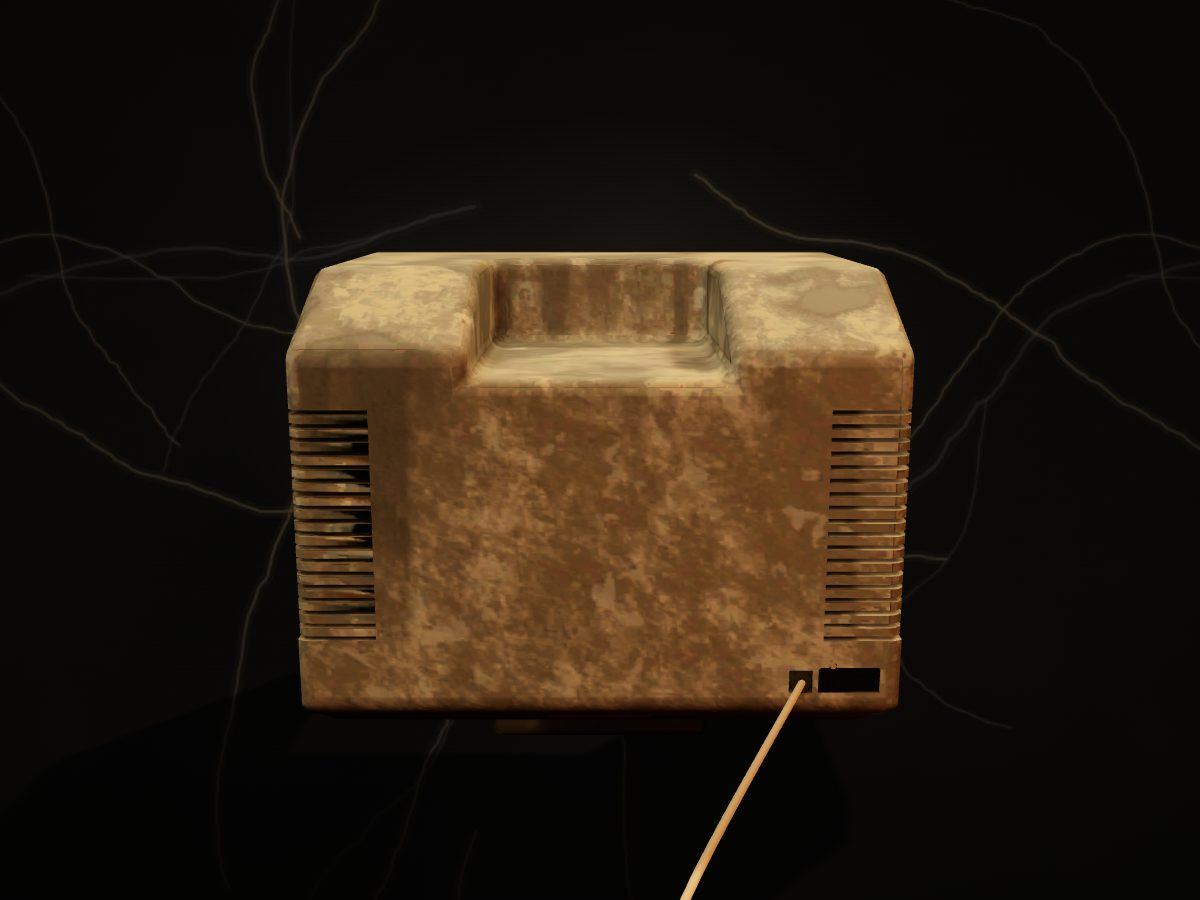
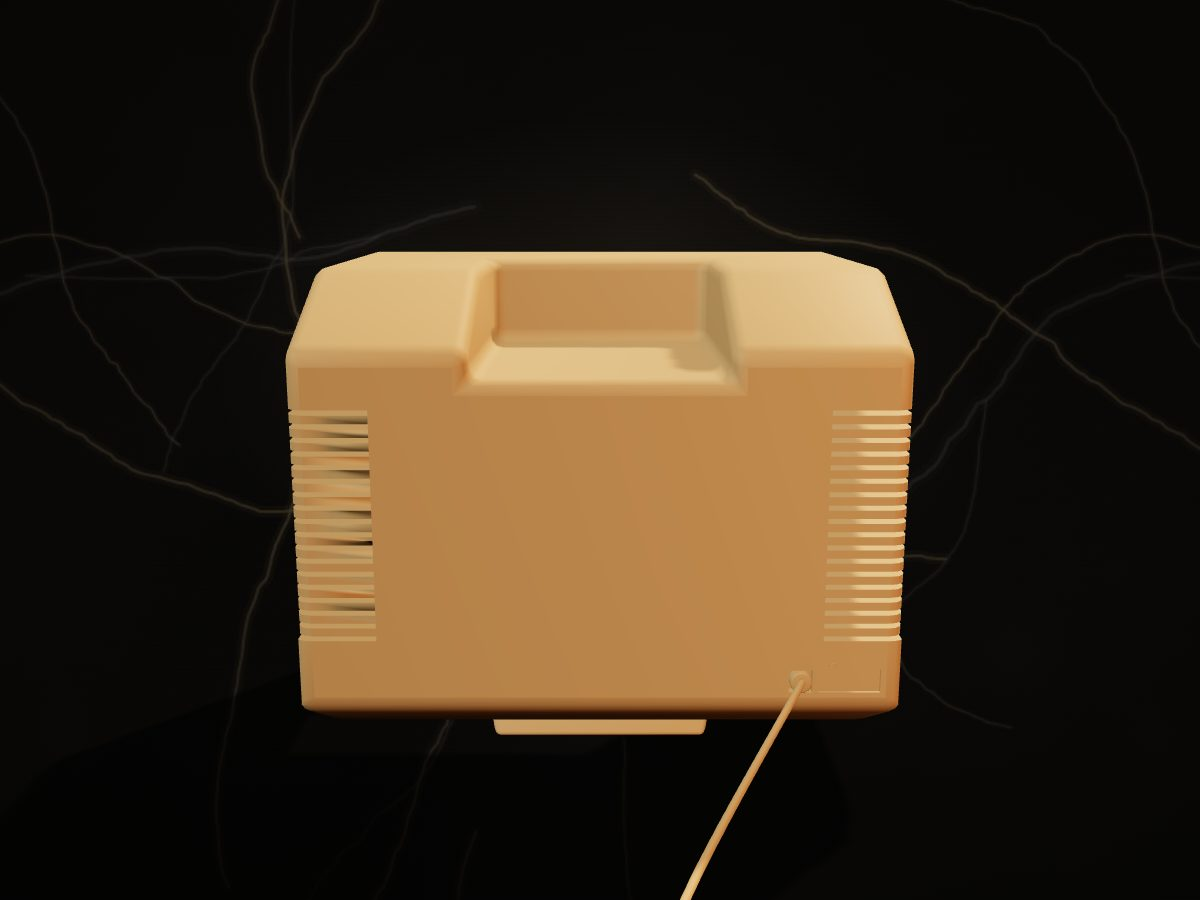
fix(nfz-300): plastique beige uni, le terminal ne ressemblait plus qu'au Minitel 1
Signalé en ligne le 13 octobre : dans sa salle, le NFZ 300 avait l'air du
Minitel 1. La teinte multipliait la carte de couleur d'origine, grise et
tachée, et sous la lumière du salon le beige disparaissait. La carte de
couleur est retirée : plastique beige uni, relief et rugosité d'origine
conservés. Vues de la Documentation et carte d'inventaire recapturées.

Le modèle du NFZ 300 trouvé sur Cults reste exclu (usage privé, outils
d'IA interdits) ; aucun modèle sous licence libre n'existe (Sketchfab).

Changed region(s): [[0.2158, 0.28, 0.7708, 0.84]]

diff --git a/src/documentation/content.fr.ts b/src/documentation/content.fr.ts
@@ -84,7 +84,7 @@ export const contentFr: DocContent = {
       kicker: "Radiotechnique · monobloc beige",
       intro: [
         "Minitel 1 de La Radiotechnique, reference 9 NFZ 300/2, conserve par l'association ACONIT a Grenoble. Sa fiche PATSTEC le presente comme un des tout premiers modeles de Minitel, deja dote d'un clavier AZERTY : le tout premier, a clavier alphabetique, avait ete rejete par les usagers.",
-        "C'est un appareil monobloc en plastique beige, developpe au sein du groupe Philips France : le modem 1200/75 bauds vient de la filiale TRT, le tube et l'assemblage de Radiotechnique. Dans le terminal 3D, il est interprete sur la geometrie du Minitel 1, teintee de beige.",
+        "C'est un appareil monobloc en plastique beige, developpe au sein du groupe Philips France : le modem 1200/75 bauds vient de la filiale TRT, le tube et l'assemblage de Radiotechnique. Dans le terminal 3D, il est interprete sur la geometrie du Minitel 1, en plastique beige.",
       ],
       facts: [
         { label: "Reference", value: "Minitel 9 NFZ 300/2 (fiche PATSTEC, ACONIT)" },
@@ -95,7 +95,7 @@ export const contentFr: DocContent = {
       ],
       asset: [
         ...minitelAsset.slice(0, 3),
-        { label: "Finition 3D", value: "teinte beige sur les textures d'origine du Minitel 1 (interpretation)" },
+        { label: "Finition 3D", value: "plastique beige uni, relief et rugosite d'origine du Minitel 1 (interpretation)" },
         minitelAsset[5],
         minitelAsset[3],
       ],

diff --git a/src/documentation/content.en.ts b/src/documentation/content.en.ts
@@ -85,7 +85,7 @@ export const contentEn: DocContent = {
       kicker: "Radiotechnique · beige one-piece",
       intro: [
         "A Minitel 1 by La Radiotechnique, reference 9 NFZ 300/2, kept by the ACONIT association in Grenoble. Its PATSTEC record presents it as one of the very first Minitel models, already fitted with an AZERTY keyboard: the very first one, with an alphabetical keyboard, had been rejected by its users.",
-        "It is a one-piece unit in beige plastic, developed within the Philips France group: the 1200/75 baud modem comes from the TRT subsidiary, the tube and assembly from Radiotechnique. In the 3D terminal, it is interpreted on the Minitel 1 geometry, tinted beige.",
+        "It is a one-piece unit in beige plastic, developed within the Philips France group: the 1200/75 baud modem comes from the TRT subsidiary, the tube and assembly from Radiotechnique. In the 3D terminal, it is interpreted on the Minitel 1 geometry, in beige plastic.",
       ],
       facts: [
         { label: "Reference", value: "Minitel 9 NFZ 300/2 (PATSTEC record, ACONIT)" },
@@ -96,7 +96,7 @@ export const contentEn: DocContent = {
       ],
       asset: [
         ...minitelAsset.slice(0, 3),
-        { label: "3D finish", value: "beige tint over the original Minitel 1 textures (interpretation)" },
+        { label: "3D finish", value: "plain beige plastic, original Minitel 1 relief and roughness (interpretation)" },
         minitelAsset[5],
         minitelAsset[3],
       ],

diff --git a/src/demo/catalog.ts b/src/demo/catalog.ts
@@ -65,14 +65,17 @@ const terminatelFinish: MaterialFinish = (_mesh, material, role) => {
 // Interpretation of the Radiotechnique Minitel 1 « 9 NFZ 300/2 » (PATSTEC record
 // 27402, ACONIT) : « un appareil en plastique absolument monobloc de couleur
 // beige ». No 3D model of it can be used (the one found on Cults is for private
-// use, without AI) : the Minitel 1 geometry gets a beige tint, keys untouched.
-const beige = new Color("#d8bf94");
+// use, without AI) : the Minitel 1 geometry gets a beige plastic, keys untouched.
+const beige = new Color("#d6bf95");
 const nfz300Finish: MaterialFinish = (_mesh, material, role) => {
   if (!(material instanceof MeshStandardMaterial) || role === "key") return;
-  // The tint multiplies the original maps : light plastic turns beige, the
-  // dark bezel stays dark.
+  // A tint over the original colour map read as the grey, mottled Minitel 1
+  // (seen in its room, 13 October 2026) : the colour map goes, the plastic is
+  // beige and one-piece ; the relief and roughness maps keep the details.
+  material.map = null;
   material.color.copy(beige);
-  material.roughness = Math.max(material.roughness, 0.6);
+  material.roughness = 0.55;
+  material.metalness = 0;
   material.needsUpdate = true;
 };
 

diff --git a/docs/MONDE_EXPLORABLE.md b/docs/MONDE_EXPLORABLE.md
@@ -219,7 +219,7 @@ fondu de 0,4 s mène à la salle.
 | --- | --- | --- | --- | --- |
 | `televiseur-1950` | Téléviseur 1950 (Huuxloc, CC BY 4.0) | 1950 | salon des années 50 | meuble télé en teck construit en code (`STAND_TOP`, 60 cm) |
 | `minitel-1` | Minitel 1 (okotaru, CC BY 4.0) | 1982 | bureau des années 80 | tables actuelles (brandon_grey, CC BY 4.0) |
-| `minitel-nfz-300` | Minitel 1 NFZ 300 (géométrie du Minitel 1, teinte beige) | 1982 | salon familial du début des années 80 | tables actuelles |
+| `minitel-nfz-300` | Minitel 1 NFZ 300 (géométrie du Minitel 1, plastique beige) | 1982 | salon familial du début des années 80 | tables actuelles |
 | `terminatel-255` | Terminatel 255 (finition marbre procédurale) | 198? | DA actuelle : marbre noir, laiton, lumière ambrée | tables actuelles |
 
 - La salle `terminatel-255` reprend la scène actuelle **sans régression** : même terminal, mêmes réglages et même mobilier. Elle gagne des murs de marbre (`src/demo/marble.ts`) et une porte de sortie.
@@ -517,7 +517,7 @@ Reste ouvert : l'essai sur un vrai iPhone 11, et des modèles CC0 pour remplacer
 - Donner une salle à une porte : ajouter le terminal au catalogue, comme les trois premiers. La salle prend la première place, et une porte fermée reste au bout.
 
 **Salle du Minitel NFZ 300 (12 octobre 2026)**, à la demande de l'utilisateur : une quatrième salle, comme les autres.
-- **Terminal** : la géométrie du Minitel 1 (okotaru), teintée de beige (`nfz300Finish`, `src/demo/catalog.ts`), comme le Terminatel est une finition. La fiche PATSTEC 27402 (ACONIT) le décrit comme « un des tout premiers modèles de Minitel », un « plastique absolument monobloc de couleur beige ». Le modèle trouvé sur Cults n'est pas utilisé : sa licence réserve un usage privé et interdit les outils d'IA (voir [ASSETS.md](ASSETS.md)).
+- **Terminal** : la géométrie du Minitel 1 (okotaru), en plastique beige uni (`nfz300Finish`, `src/demo/catalog.ts`) : la carte de couleur d'origine est retirée, le relief et la rugosité restent. Une simple teinte sur cette carte grise et tachée se lisait comme le Minitel 1 (corrigé le 13 octobre 2026). C'est une finition, comme pour le Terminatel. La fiche PATSTEC 27402 (ACONIT) le décrit comme « un des tout premiers modèles de Minitel », un « plastique absolument monobloc de couleur beige ». Le modèle trouvé sur Cults n'est pas utilisé : sa licence réserve un usage privé et interdit les outils d'IA (voir [ASSETS.md](ASSETS.md)).
 - **Porte** : 1982, comme le Minitel 1, et placée juste après lui. Deux portes de la même année se distinguent par leur terminal : « Porte 1982 — Minitel 1 », « Porte 1982 — Minitel NFZ 300 ».
 - **Salle** (`Salon1982`, ambiance `salon-1982`) : le salon familial des années où le Minitel arrive à la maison (l'annuaire électronique).
   - Papier peint à bandes brunes et ocre, moquette brune, globe opalin au plafond.
